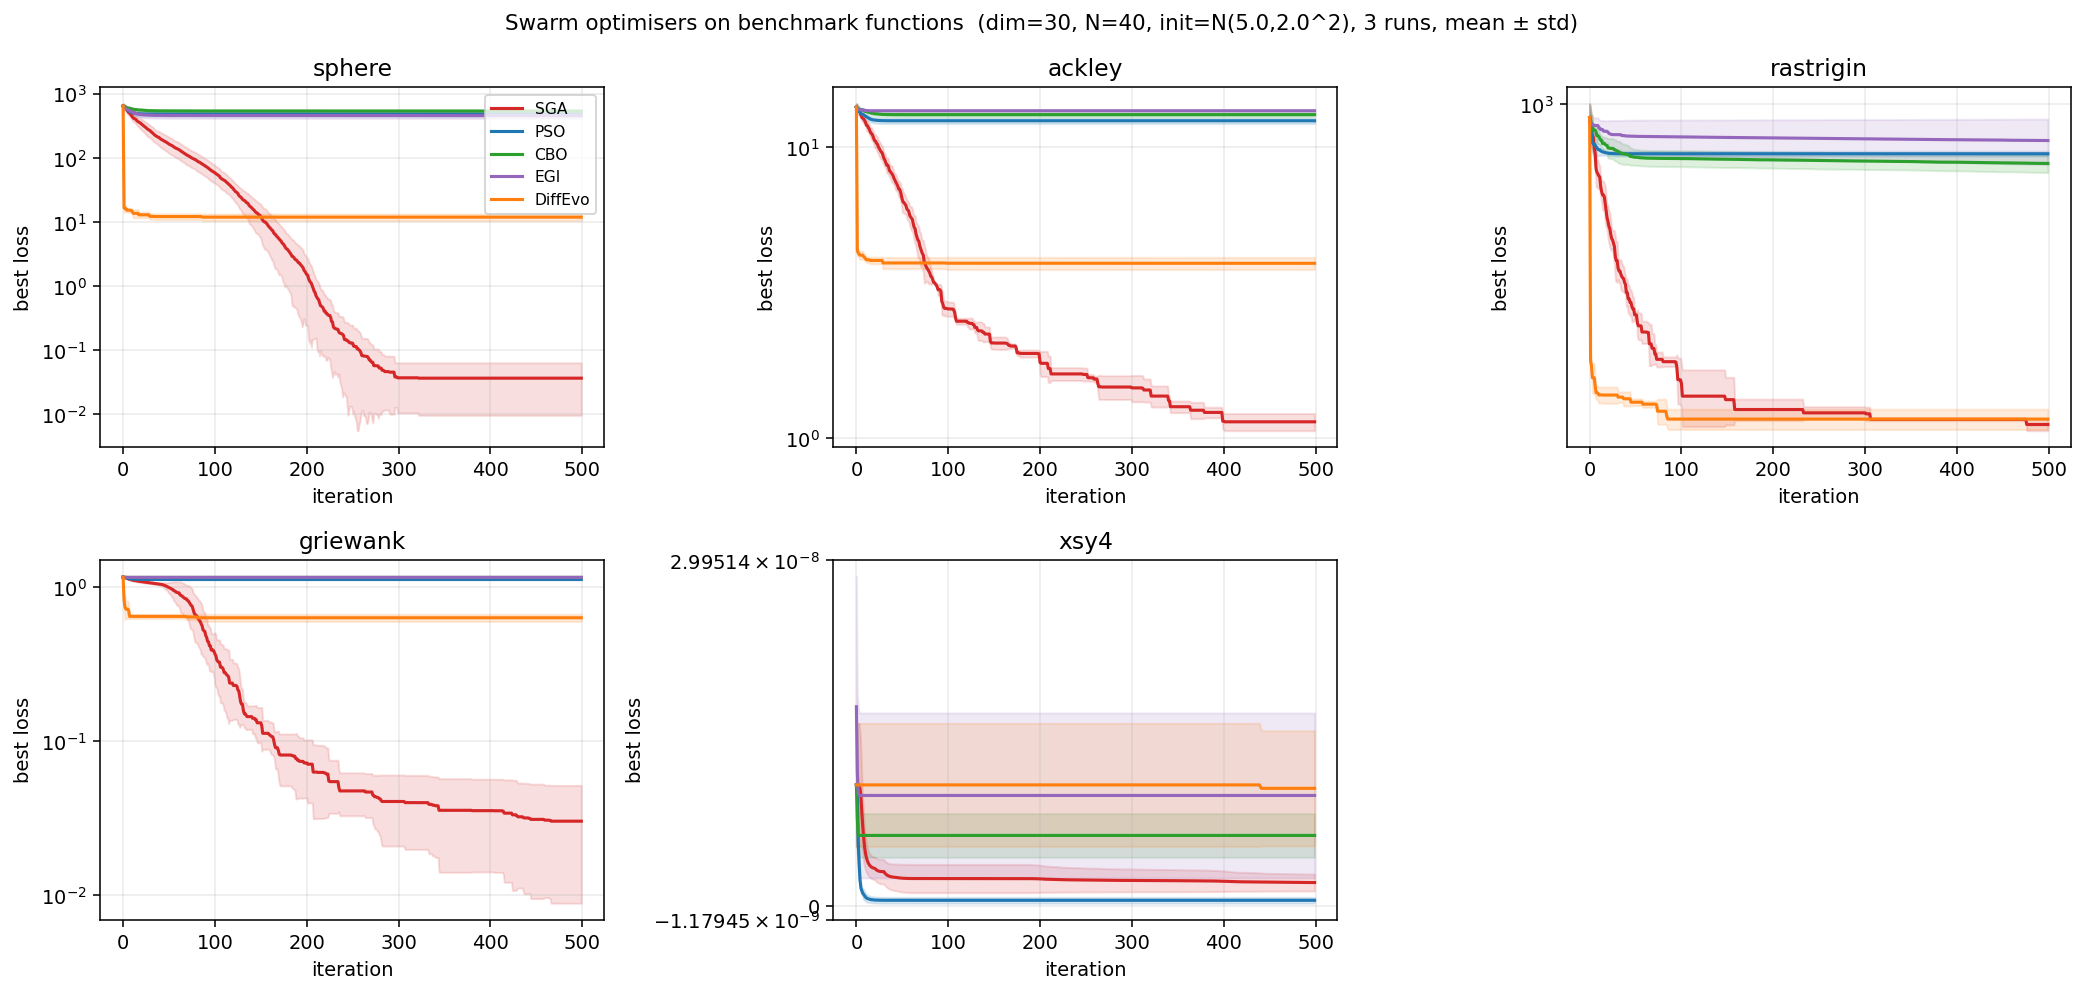
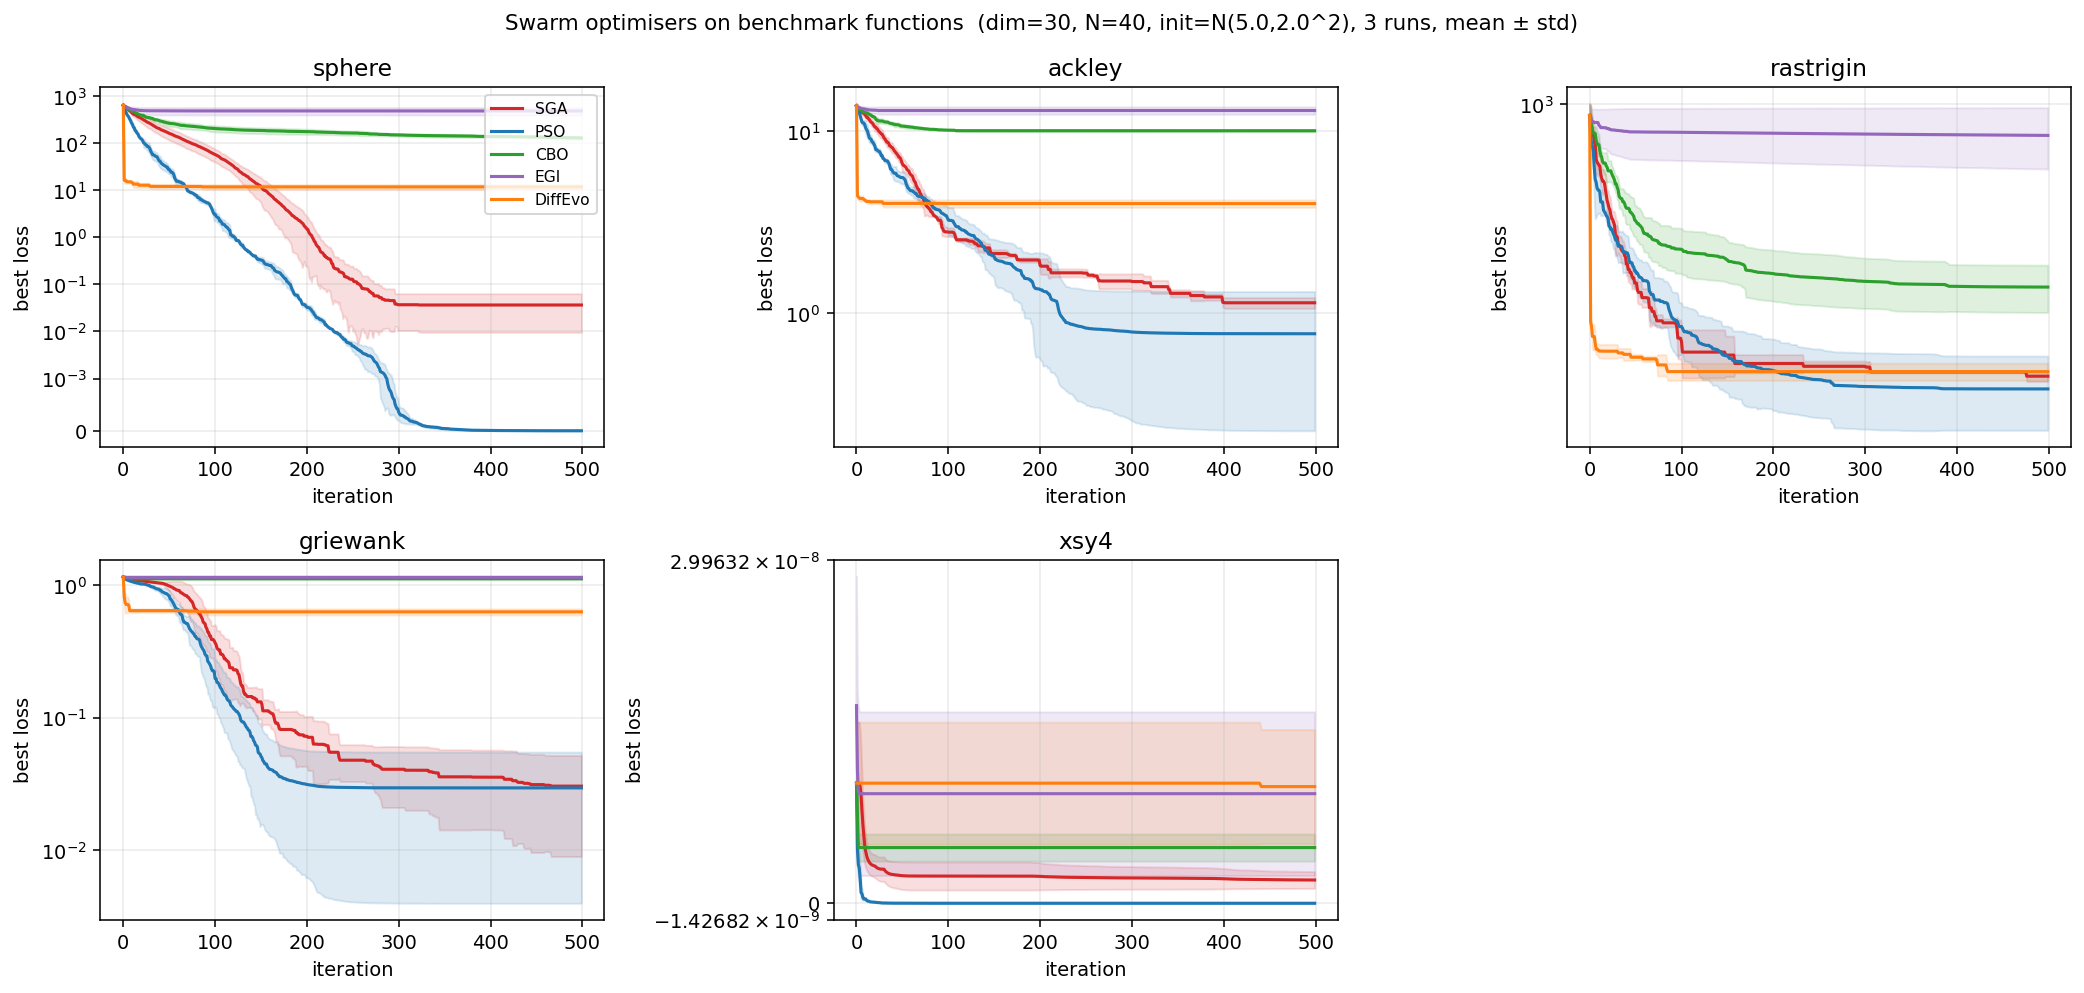
update benchmark.png

diff --git a/eval.py b/eval.py
@@ -44,13 +44,16 @@ def make_optimizer(name, models, iterations, device):
             sub_swarms=1, parallel=True, device=device,
         )
     if name == "PSO":
+        # Clerc-Kennedy constriction PSO: w=0.7298, c1=c2=1.49445
         return PSO(
-            models, c1=1.5, c2=0.5, inertia=0.5,
+            models, c1=1.49445, c2=1.49445, inertia=0.7298,
             do_momentum=False, parallel=True, device=device,
         )
     if name == "CBO":
+        # CBXpy-style defaults for benchmark functions:
+        # alpha=100 (sharp consensus), sigma=sqrt(2) (anisotropic), dt=0.1
         return CBO(
-            models, lambda_=1.0, sigma=0.5, dt=0.1, temp=30.0,
+            models, lambda_=1.0, sigma=2.0**0.5, dt=0.1, temp=100.0,
             noise_type="component", parallel=True, device=device,
         )
     if name == "EGI":

diff --git a/swarm.py b/swarm.py
@@ -59,7 +59,7 @@ class Swarm(optim.Optimizer):
 
         self.pp = post_process
 
-        self.pbests_x = self.X
+        self.pbests_x = self.X.clone()
         self.pbests_y = torch.Tensor([float("inf") for _ in range(self.N)]).to(self.X.device)
 
         # unnecessary:

diff --git a/README.md b/README.md
@@ -1,21 +1,82 @@
 # Swarm Optimizers in PyTorch
 
-This Repository, specifically `swarm.py`, contains implementations of 
+This repository, specifically `swarm.py`, contains implementations of
 
-1. SwarmGrad (novel optimizer)
-2. Particle Swarm Optimization
-3. Consensus Based Optimization
+1. **SwarmGradAccel (SGA)** — novel optimizer (described below)
+2. Particle Swarm Optimization (PSO)
+3. Consensus Based Optimization (CBO)
 4. Diffusion Evolution
 5. EGICBO
 
 They are evaluated on the following tasks:
 
-1. Benchmark Optimization Functions (`bench.py`)
-2. MNIST Digit Classification (`mnist.py`)
+1. Benchmark optimisation functions (`bench.py`, `eval.py`)
+2. MNIST digit classification (`mnist.py`)
 3. Regression (`reg.py`)
-4. Physics Informed Neural Networks (`burger.py`)
-5. Language Modeling (`gpt/gpt\_train.py`)
+4. Physics-informed neural networks (`burger.py`)
+5. Language modelling (`gpt/gpt_train.py`)
 
+## SwarmGradAccel (SGA)
+
+SGA is a zeroth-order, particle-based optimiser. It estimates a descent direction at each particle from *pairwise* loss differences with randomly sampled reference particles, then applies an Adam-style moment update to that direction.
+
+### Notation
+
+Let $N$ be the number of particles, $f : \mathbb{R}^d \to \mathbb{R}$ the objective, and $X = (x_1, \ldots, x_N) \in \mathbb{R}^{N \times d}$ the swarm at iteration $t$. The hyperparameters are: the number of reference particles $K$, the leak slope $\alpha$ of the LeakyReLU, the normalisation exponent $p \in \{0, 1, 2\}$, learning rate $\eta$, momentum coefficients $\beta_1, \beta_2$, drift weight $c_1$, and noise scale $c_2$.
+
+### Update rule
+
+At each step $t$:
+
+**1. Draw $K$ random reference assignments.** For each $k = 1, \ldots, K$, sample a permutation $\pi_k$ of $\{1, \ldots, N\}$ uniformly at random. Particle $i$'s $k$-th reference is $\pi_k(i)$.
+
+**2. Compute the swarm-gradient surrogate.** For each particle $i$, accumulate the contribution of every reference,
+
+$$
+g_i \;=\; \frac{1}{K} \sum_{k=1}^{K} \, \phi_\alpha\!\bigl(f(x_i) - f(x_{\pi_k(i)})\bigr) \cdot \frac{x_{\pi_k(i)} - x_i}{\lVert x_{\pi_k(i)} - x_i \rVert^{p} + \varepsilon}
+$$
+
+where $\phi_\alpha$ is the LeakyReLU with negative slope $\alpha$:
+
+$$
+\phi_\alpha(z) \;=\; \begin{cases} z & z \ge 0 \\ \alpha z & z < 0 \end{cases}
+$$
+
+The intuition is: if the reference particle has a *lower* loss ($f(x_{\pi_k(i)}) < f(x_i)$, so $z>0$), $g_i$ points fully toward it; if it has a *higher* loss ($z<0$), $\phi_\alpha$ damps the term by $\alpha$, so we still move slightly toward it (information about the local geometry is not discarded entirely, just down-weighted). The denominator with exponent $p$ controls how distance is treated: $p=0$ = raw difference, $p=1$ = unit direction, $p=2$ = inverse-distance scaling.
+
+**3. Adam-style moments.** Track first and second moments of $g$:
+
+$$
+m_t = \beta_1 m_{t-1} + (1-\beta_1)\, g, \qquad v_t = \beta_2 v_{t-1} + (1-\beta_2)\, g^{\odot 2}
+$$
+
+with bias correction $\hat{m}_t = m_t / (1-\beta_1^t)$ and $\hat{v}_t = v_t / (1-\beta_2^t)$.
+
+**4. Particle update.** Add the bias-corrected, normalised step plus optional Gaussian exploration noise $\xi \sim \mathcal{N}(0, I)$:
+
+$$
+x_i \;\leftarrow\; x_i \;+\; \eta\, c_1 \cdot \frac{\hat{m}_t}{\sqrt{\hat{v}_t} + \varepsilon} \;+\; c_2 \, \xi
+$$
+
+The non-momentum variant simply uses $x_i \leftarrow x_i + c_1 g_i + c_2 \xi$.
+
+### Notes
+
+- $g_i$ is a finite-difference / "ensemble-gradient" surrogate, similar in spirit to evolution strategies but using *peer comparisons* rather than a fixed mean. Unlike CBO it has no global consensus point — directions are local to each particle.
+- $K > 1$ averages over multiple reference particles per step, reducing variance of $g_i$ at the cost of more shuffles.
+- The (optional) sub-swarm mode partitions particles into groups that only sample references within their group for the first 1000 steps, then merge.
+
+## Benchmark results
+
+`eval.py` runs all swarm optimisers on the standard benchmark functions (sphere, ackley, rastrigin, griewank, xsy4) and produces a comparison plot:
+
+```bash
+python3 eval.py --N 40 --dim 30 --iterations 500 --runs 3 --out benchmark.png
+```
+
+PSO uses the canonical Clerc-Kennedy constriction setting ($w = 0.7298$, $c_1 = c_2 = 1.49445$); CBO uses CBXpy-style defaults ($\lambda = 1$, $\sigma = \sqrt{2}$, $\Delta t = 0.1$, $\alpha = 100$).
+
+![Benchmark results](benchmark.png)
 
 ## References
 
@@ -61,7 +122,7 @@ EGICBO:
 ```
 
 Diffusion Evolution:
-``` 
+```
 @article{zhang2024diffusion,
     title={Diffusion Models are Evolutionary Algorithms},
     author={Zhang, Yanbo and Hartl, Benedikt and Hazan, Hananel and Levin, Michael},